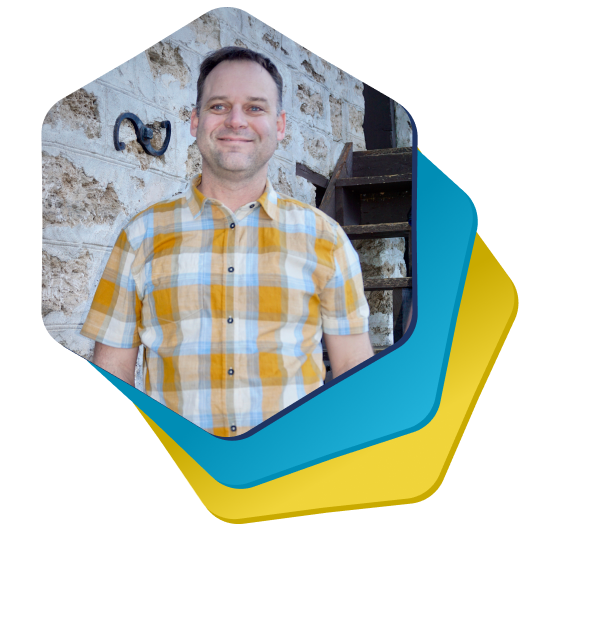
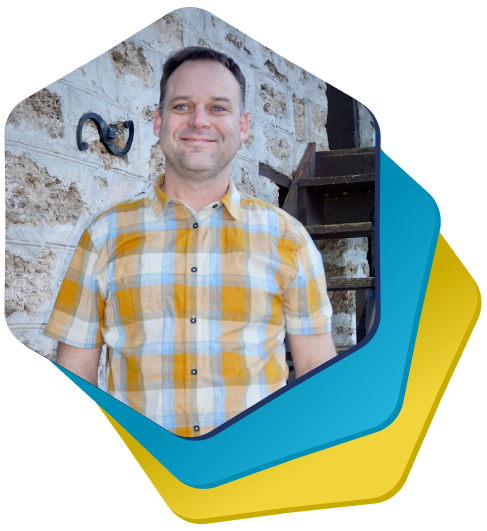
added about desktop styles

diff --git a/src/components/about/AboutContent.js b/src/components/about/AboutContent.js
@@ -2,18 +2,21 @@ import React from 'react';
 import Social from './Social';
 
 import profileImg from '../../img/profile-image.png';
+import './about.css';
 
 function AboutContent() {
     return (
-        <div>
-            <div>
+        <div className="about-container">
+            <div className="bio-info">
                 <h3>Who I am...</h3>
                 <p>I am a Full Stack Web Developer with a wide range of business experience in multiple industries.  Recently completed a certificate in Full Stack Development from the University of Utah where I developed skills in Javascript, React, CSS and other current programming languages.</p>
                 <p>Previous work with a start-up company refined many other related skills; like problem solving, delivering accurate work, time management & communication among all levels of the business.  Here I proudly leveraged my ability to see both the macro and micro levels of the business, I have implemented different policies, procedures and programs that have resulted in improved efficiencies.</p>
                 <p>I’m excited to incorporate these past experiences with my creativity and implement them into building quality experiences on the web.</p>
+                <Social />
             </div>
-            <Social />
-            <img src={profileImg} alt="profile"></img>
+            <div className="bio-image">
+                <img src={profileImg} alt="profile"></img>
+            </div>
         </div>
     )
 }

diff --git a/src/components/about/about.css b/src/components/about/about.css
@@ -27,3 +27,65 @@
     transition: visibility 1s, opacity 0.5s linear;
     opacity: 1;
 }
+
+/* About Content */
+.customModal {
+    background: rgba(46, 48, 54, 0.44) !important;
+    border: 1px solid #dfe0e0;
+    border-radius: 10px;
+    max-width: 1200px !important;
+}
+
+.about-container {
+    display: flex;
+    color: #dfe0e0;
+    padding: 2em;
+}
+
+.react-responsive-modal-closeButton svg {
+    border: 1px solid #dfe0e0;
+    border-radius: 5px;
+    fill: #dfe0e0;
+}
+
+.bio-info {
+    background-color: rgba(242, 53, 87, 0.63);
+    border-radius: 10px;
+    padding: 2em;
+    width: 50%;
+}
+
+.bio-info h3 {
+    font-size: 1.5em;
+}
+
+.bio-info p {
+    font-size: 1.25em;
+    line-height: 1.3;
+}
+
+.bio-image {
+    display: flex;
+    align-items: center;
+    justify-content: center;
+    padding-left: 2em;
+    width: 50%;
+}
+
+.bio-image img {
+    width: 90%;
+}
+
+.social-block {
+    display: flex;
+    align-items: center;
+    justify-content: space-around;
+}
+
+.social-block a {
+    color: #dfe0e0;
+}
+
+.social-block a i {
+    font-size: 3em;
+}

diff --git a/src/components/about/Social.js b/src/components/about/Social.js
@@ -2,10 +2,14 @@ import React from 'react';
 
 function Social() {
     return (
-        <div>
+        <div className="social-block">
             <p>More Info:</p>
-            <i className="fab fa-linkedin"></i>
-            <i className="fab fa-github-square"></i>
+            <a href="https://www.linkedin.com/in/nvalline/" target="_blank" rel="noopener noreferrer">
+                <i className="fab fa-linkedin"></i>
+            </a>
+            <a href="https://github.com/nvalline/" target="_blank" rel="noopener noreferrer">
+                <i className="fab fa-github-square"></i>
+            </a>
         </div>
     )
 }

diff --git a/src/components/about/AboutBtn.js b/src/components/about/AboutBtn.js
@@ -23,7 +23,12 @@ function AboutBtn() {
         >
             <p className={isShown ? "showing" : "notShowing"} onClick={closeModal}>About</p>
             <img src={diamond} alt="diamond" />
-            <Modal open={open} onClose={() => setOpen(false)} center>
+            <Modal
+                open={open}
+                onClose={() => setOpen(false)}
+                center
+                classNames={{ modal: 'customModal' }}
+            >
                 <AboutContent />
             </Modal>
         </div>
